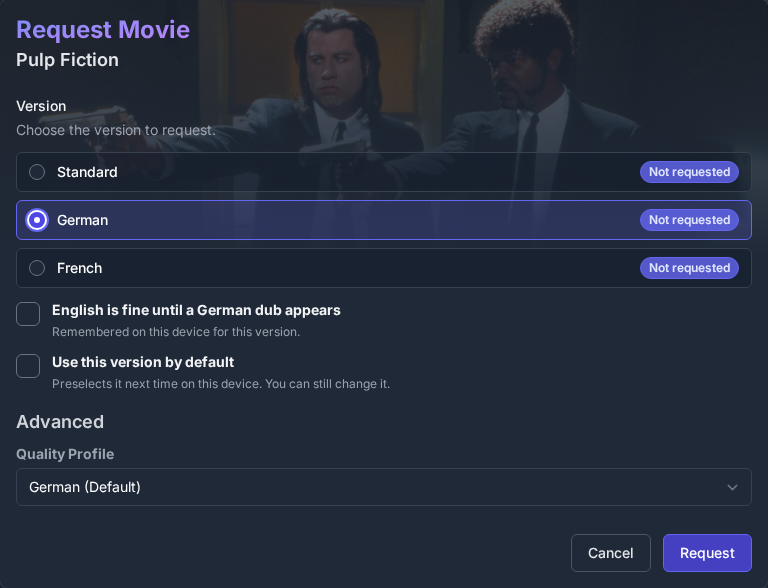
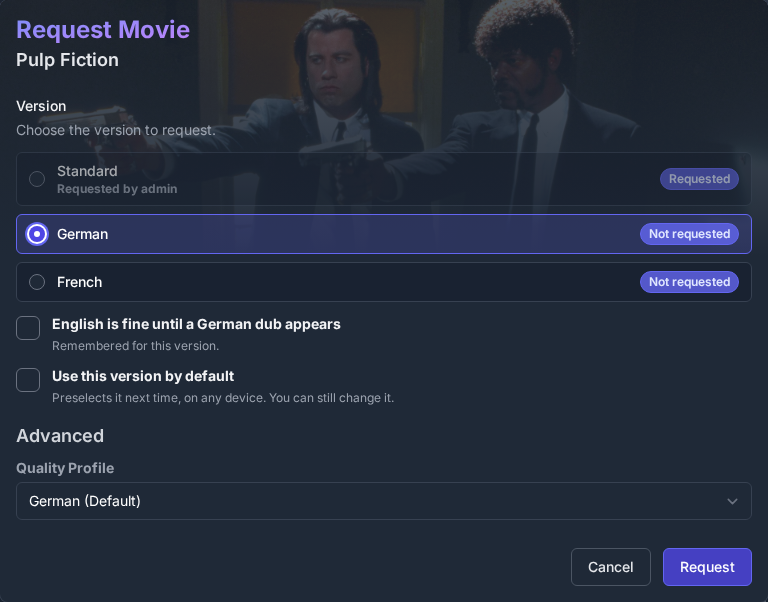
feat: show who requested each version
The request dialog shows under each version who has an open request
for it ("Requested by you and 2 others"); the versions panel now shows
the requester for the standard version too, as it did for the others.
Declined, failed and 4K requests are left out.

README screenshots retaken: requesters visible, German no longer listed
twice (the demo Radarr now returns format conditions like a real one).

diff --git a/src/components/VersionsPanel/index.tsx b/src/components/VersionsPanel/index.tsx
@@ -59,10 +59,69 @@ const VersionsPanel = ({
   const detailsFor = (key: string) =>
     fileDetails?.versions.find((v) => v.key === key);
   const standardDetails = detailsFor('standard');
+  const standardRequests = (media?.requests ?? [])
+    .filter(
+      (request) =>
+        !request.isServiceRequest &&
+        !request.is4k &&
+        ACTIVE_REQUEST_STATUSES.includes(request.status)
+    )
+    .sort(
+      (a, b) =>
+        new Date(a.createdAt).getTime() - new Date(b.createdAt).getTime()
+    );
 
   if (versions.length === 0) {
     return null;
   }
+
+  const requestedByLine = (requests: Media['requests']) => {
+    const firstRequest = requests[0];
+    if (!firstRequest?.requestedBy) {
+      return null;
+    }
+    return (
+      <div className="mt-1 flex items-center justify-end text-xs font-normal text-gray-400">
+        {intl.formatMessage(
+          requests.length > 1 ? messages.requestedbymany : messages.requestedby,
+          {
+            count: requests.length - 1,
+            user: (
+              <Link
+                href={
+                  firstRequest.requestedBy.id === user?.id
+                    ? '/profile'
+                    : `/users/${firstRequest.requestedBy.id}`
+                }
+                className="mx-1 inline-flex items-center font-semibold text-gray-300 hover:text-white hover:underline"
+              >
+                <span className="avatar-sm mr-1">
+                  <CachedImage
+                    type="avatar"
+                    src={firstRequest.requestedBy.avatar}
+                    alt=""
+                    className="avatar-sm object-cover"
+                    width={16}
+                    height={16}
+                  />
+                </span>
+                {firstRequest.requestedBy.displayName}
+              </Link>
+            ),
+          }
+        )}
+        <span className="ml-1">
+          <FormattedRelativeTime
+            value={Math.floor(
+              (new Date(firstRequest.createdAt).getTime() - Date.now()) / 1000
+            )}
+            updateIntervalInSeconds={60}
+            numeric="auto"
+          />
+        </span>
+      </div>
+    );
+  };
 
   const rows = versions.map((version) => {
     const serviceStatus = media?.serviceStatuses?.find(
@@ -101,16 +160,17 @@ const VersionsPanel = ({
       {(standardDetails?.summary ||
         standardDetails?.coverage.coveredBy ||
         standardDetails?.coverage.requestedVia ||
-        standardDetails?.coverage.seasons) && (
+        standardDetails?.coverage.seasons ||
+        standardRequests.length > 0) && (
         <div className="media-fact flex-col items-stretch">
           <div className="flex justify-between">
             <span>{intl.formatMessage(messages.standard)}</span>
           </div>
           <VersionFileDetails details={standardDetails} />
+          {requestedByLine(standardRequests)}
         </div>
       )}
       {rows.map(({ version, status, requests }) => {
-        const firstRequest = requests[0];
         const isRequested =
           status !== MediaStatus.UNKNOWN && status !== MediaStatus.DELETED;
 
@@ -132,51 +192,7 @@ const VersionsPanel = ({
                 `${mediaType === 'tv' ? 'sonarr' : 'radarr'}:${version.id}`
               )}
             />
-            {firstRequest?.requestedBy && (
-              <div className="mt-1 flex items-center justify-end text-xs font-normal text-gray-400">
-                {intl.formatMessage(
-                  requests.length > 1
-                    ? messages.requestedbymany
-                    : messages.requestedby,
-                  {
-                    count: requests.length - 1,
-                    user: (
-                      <Link
-                        href={
-                          firstRequest.requestedBy.id === user?.id
-                            ? '/profile'
-                            : `/users/${firstRequest.requestedBy.id}`
-                        }
-                        className="mx-1 inline-flex items-center font-semibold text-gray-300 hover:text-white hover:underline"
-                      >
-                        <span className="avatar-sm mr-1">
-                          <CachedImage
-                            type="avatar"
-                            src={firstRequest.requestedBy.avatar}
-                            alt=""
-                            className="avatar-sm object-cover"
-                            width={16}
-                            height={16}
-                          />
-                        </span>
-                        {firstRequest.requestedBy.displayName}
-                      </Link>
-                    ),
-                  }
-                )}
-                <span className="ml-1">
-                  <FormattedRelativeTime
-                    value={Math.floor(
-                      (new Date(firstRequest.createdAt).getTime() -
-                        Date.now()) /
-                        1000
-                    )}
-                    updateIntervalInSeconds={60}
-                    numeric="auto"
-                  />
-                </span>
-              </div>
-            )}
+            {requestedByLine(requests)}
           </div>
         );
       })}

diff --git a/src/components/RequestModal/VersionPicker.tsx b/src/components/RequestModal/VersionPicker.tsx
@@ -1,5 +1,6 @@
 import Badge from '@app/components/Common/Badge';
 import { getStatusLabel } from '@app/components/StatusBadge';
+import { useUser } from '@app/hooks/useUser';
 import defineMessages from '@app/utils/defineMessages';
 import type { VersionChoice, VersionKey } from '@app/utils/versionChoices';
 import { optionApplies } from '@app/utils/versionChoices';
@@ -12,6 +13,11 @@ const messages = defineMessages('components.RequestModal.VersionPicker', {
   chooseversion: 'Choose the version to request.',
   standard: 'Standard',
   notrequested: 'Not requested',
+  requestedby: 'Requested by {user}',
+  requestedbytwo: 'Requested by {user} and {other}',
+  requestedbymany:
+    'Requested by {user} and {count, plural, one {# other} other {# others}}',
+  you: 'you',
   otherversionheld: 'You already requested another version of this title.',
   usebydefault: 'Use this version by default',
   usebydefaultdescription:
@@ -49,7 +55,31 @@ const VersionPicker = ({
   showStatus = true,
 }: VersionPickerProps) => {
   const intl = useIntl();
+  const { user } = useUser();
   const selectedChoice = choices.find((c) => c.key === selected);
+  const nameOf = (requester: { id: number; displayName: string }) =>
+    requester.id === user?.id
+      ? intl.formatMessage(messages.you)
+      : requester.displayName;
+  const requestedBy = (requesters: VersionChoice['requesters']) => {
+    const [first, second] = requesters;
+    if (!first) {
+      return null;
+    }
+    if (requesters.length === 1) {
+      return intl.formatMessage(messages.requestedby, { user: nameOf(first) });
+    }
+    if (requesters.length === 2) {
+      return intl.formatMessage(messages.requestedbytwo, {
+        user: nameOf(first),
+        other: nameOf(second),
+      });
+    }
+    return intl.formatMessage(messages.requestedbymany, {
+      user: nameOf(first),
+      count: requesters.length - 1,
+    });
+  };
   const options =
     selectedChoice?.requestable && onOptionChange ? selectedChoice.options : [];
 
@@ -100,6 +130,14 @@ const VersionPicker = ({
                   <span className="text-sm font-medium text-white">
                     {label}
                   </span>
+                  {showStatus && choice.requesters.length > 0 && (
+                    <span
+                      className="text-xs text-gray-400"
+                      data-testid="version-requesters"
+                    >
+                      {requestedBy(choice.requesters)}
+                    </span>
+                  )}
                   {choice.otherVersionHeld && (
                     <span className="text-xs text-gray-400">
                       {intl.formatMessage(messages.otherversionheld)}

diff --git a/src/utils/versionChoices.test.ts b/src/utils/versionChoices.test.ts
@@ -9,6 +9,7 @@ import {
   initialVersionChoice,
   optionApplies,
   preferenceChanges,
+  versionRequesters,
 } from './versionChoices';
 
 const services = [
@@ -354,5 +355,75 @@ describe('preferenceChanges', () => {
       }),
       {}
     );
+  });
+});
+
+describe('versionRequesters', () => {
+  const by = (
+    id: number,
+    serverId: number | undefined,
+    createdAt: string,
+    over: Record<string, unknown> = {}
+  ) => ({
+    requestedBy: { id, displayName: `user${id}` },
+    is4k: false,
+    isServiceRequest: serverId !== undefined,
+    serverId,
+    status: MediaRequestStatus.APPROVED,
+    createdAt,
+    ...over,
+  });
+  const title = (requests: ReturnType<typeof by>[]) =>
+    ({ requests }) as unknown as Media;
+
+  it('lists who requested each version, oldest first, once each', () => {
+    const requests = title([
+      by(3, 2, '2026-11-03'),
+      by(1, undefined, '2026-11-02'),
+      by(2, 2, '2026-11-01'),
+      by(3, 2, '2026-11-04'),
+    ]);
+    assert.deepStrictEqual(versionRequesters(requests, 'movie', 'radarr:2'), [
+      { id: 2, displayName: 'user2' },
+      { id: 3, displayName: 'user3' },
+    ]);
+    assert.deepStrictEqual(versionRequesters(requests, 'movie', 'standard'), [
+      { id: 1, displayName: 'user1' },
+    ]);
+    assert.deepStrictEqual(
+      versionRequesters(requests, 'movie', 'radarr:1'),
+      []
+    );
+  });
+
+  it('skips declined, failed and 4K requests', () => {
+    const requests = title([
+      by(1, 2, '2026-11-01', { status: MediaRequestStatus.DECLINED }),
+      by(2, 2, '2026-11-01', { status: MediaRequestStatus.FAILED }),
+      by(3, 2, '2026-11-01', { is4k: true }),
+    ]);
+    assert.deepStrictEqual(
+      versionRequesters(requests, 'movie', 'radarr:2'),
+      []
+    );
+  });
+
+  it('is part of every version choice', () => {
+    const [standard, german] = getVersionChoices({
+      mediaType: 'movie',
+      media: {
+        status: MediaStatus.PROCESSING,
+        serviceStatuses: [],
+        requests: [by(5, undefined, '2026-11-01')],
+      } as unknown as Media,
+      services,
+      userId: 7,
+      grants: ['radarr:1'],
+      isManager: false,
+    });
+    assert.deepStrictEqual(standard.requesters, [
+      { id: 5, displayName: 'user5' },
+    ]);
+    assert.deepStrictEqual(german.requesters, []);
   });
 });

diff --git a/src/utils/versionChoices.ts b/src/utils/versionChoices.ts
@@ -45,7 +45,56 @@ export interface VersionChoice {
   coveredBy?: string | null;
   /** Movie: another version was just requested and may cover this one. */
   requestedVia?: string | null;
+  /** Users with an open (pending, approved or completed) request, oldest first. */
+  requesters: VersionRequester[];
 }
+
+export interface VersionRequester {
+  id: number;
+  displayName: string;
+}
+
+const OPEN_REQUEST_STATUSES = [
+  MediaRequestStatus.PENDING,
+  MediaRequestStatus.APPROVED,
+  MediaRequestStatus.COMPLETED,
+];
+
+/**
+ * Who requested a version of the title (non-4K, not declined or failed),
+ * oldest request first, each user once. The standard version counts every
+ * request that is not a version request.
+ */
+export const versionRequesters = (
+  media: Pick<Media, 'requests'> | undefined,
+  mediaType: 'movie' | 'tv',
+  key: VersionKey
+): VersionRequester[] => {
+  const seen = new Set<number>();
+  return [...(media?.requests ?? [])]
+    .filter(
+      (request) =>
+        !request.is4k &&
+        OPEN_REQUEST_STATUSES.includes(request.status) &&
+        versionKey(
+          mediaType,
+          request.isServiceRequest ? request.serverId : undefined
+        ) === key
+    )
+    .sort(
+      (a, b) =>
+        new Date(a.createdAt ?? 0).getTime() -
+        new Date(b.createdAt ?? 0).getTime()
+    )
+    .flatMap((request) => {
+      const user = request.requestedBy;
+      if (!user || seen.has(user.id)) {
+        return [];
+      }
+      seen.add(user.id);
+      return [{ id: user.id, displayName: user.displayName }];
+    });
+};
 
 export const versionKey = (
   mediaType: 'movie' | 'tv',
@@ -175,6 +224,7 @@ export const getVersionChoices = ({
       ),
       otherVersionHasTitle: hasTitleElsewhere(undefined),
       ...coverageOf(STANDARD_VERSION),
+      requesters: versionRequesters(media, mediaType, STANDARD_VERSION),
     },
   ];
 
@@ -201,6 +251,7 @@ export const getVersionChoices = ({
       options: optionsForTitle(service.requestOptions, isAnime),
       otherVersionHasTitle: hasTitleElsewhere(service.id),
       ...coverageOf(key),
+      requesters: versionRequesters(media, mediaType, key),
     });
   }
 

diff --git a/.github/README.md b/.github/README.md
@@ -38,17 +38,17 @@ The screenshots use demo data: a standard Radarr plus "German" and "French" vers
 
 <img src="../vseerr-docs/images/admin-version-settings.png" alt="Server settings: version name German, defining format German audio, and the request option 'English is fine until a German dub appears' tied to the German or English profile" width="600">
 
-<img src="../vseerr-docs/images/request-dialog.png" alt="Request dialog with Standard, German and French versions, the German option 'English is fine until a German dub appears' and the quality profile" width="600">
+<img src="../vseerr-docs/images/request-dialog.png" alt="Request dialog: Standard requested by admin; German selected with the option 'English is fine until a German dub appears' and the quality profile; French not requested" width="600">
 
-The user picks a version, ticks any of its request options, and can choose another quality profile of that instance. The default version and the ticked options are saved with the user's account, so they apply on every device.
+Each version shows who has already requested it. The user picks a version, ticks any of its request options, and can choose another quality profile of that instance. The default version and the ticked options are saved with the user's account, so they apply on every device.
 
-**What each version has.** The title page lists every version with what its files contain. Here The Matrix exists in Standard (2160p Remux with Atmos and Dolby Vision) and in German (1080p with German audio). A language the version's profile rewards is highlighted.
+**What each version has.** The title page lists every version with what its files contain. Here The Matrix exists in Standard (2160p Remux with Atmos and Dolby Vision) and in German (1080p with German audio), each with who requested it. A language the version's profile rewards is highlighted.
 
-<img src="../vseerr-docs/images/versions-panel.png" alt="Versions panel: Standard with 2160p, Atmos, Dolby Vision, Remux and English; German with 1080p, English and German highlighted; French not requested" width="320">
+<img src="../vseerr-docs/images/versions-panel.png" alt="Versions panel: Standard with 2160p, Atmos, Dolby Vision, Remux and English, requested by admin; German with 1080p, English and German highlighted, requested by demo; French not requested" width="320">
 
 **Covered by another version.** Inception's Standard file already has German audio, which is a defining format of the German version. German therefore shows as available through Standard, and only users with Manage Requests can request it separately.
 
-<img src="../vseerr-docs/images/versions-coverage.png" alt="Versions panel: Standard with 1080p, English and German audio; German not requested, available through Standard" width="320">
+<img src="../vseerr-docs/images/versions-coverage.png" alt="Versions panel: Standard with 1080p, English and German; German not requested, available through Standard" width="320">
 
 ## Installing
 
